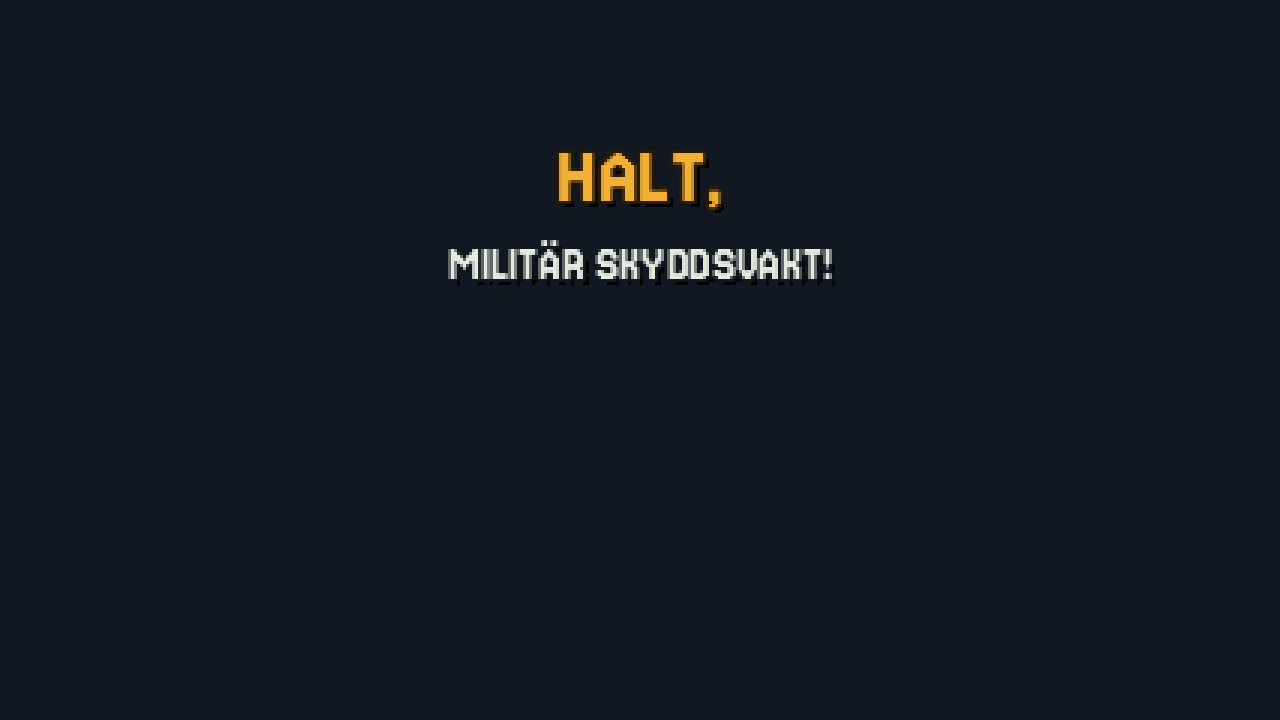
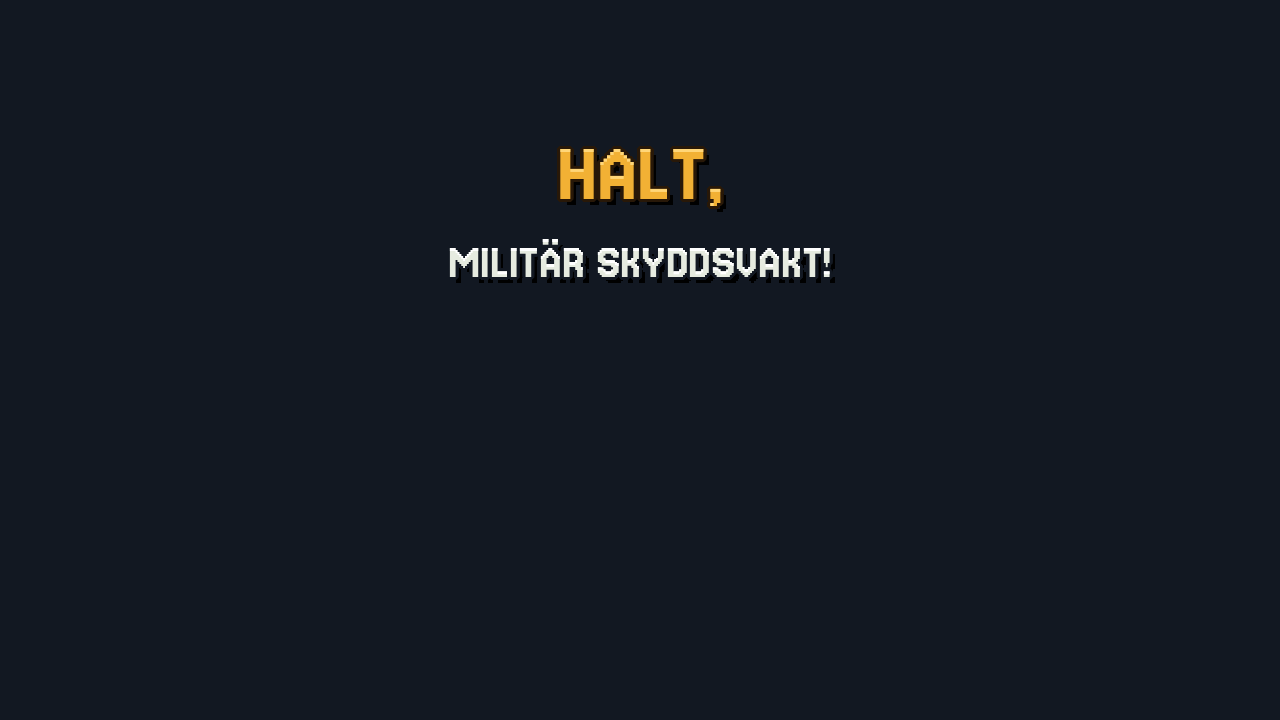
Skarpare logga och titelbild: tre gånger så många pixlar
- Loggan ritas i 660x192 (förr 220x64) med tjockare kant och ljus överkant
- Startskärmens bakgrund är kartan i full upplösning (titelbakgrund.png)
- Startbild och delningsbild genererade om med nya loggan

Claude-Session: https://claude.ai/code/session_01PWrrRnAUGCDbWAToA7Kxse

Changed region(s): [[0.3438, 0.3361, 0.6562, 0.3972], [0.4375, 0.1833, 0.5625, 0.3056]]

diff --git a/verktyg/generera_grafik.py b/verktyg/generera_grafik.py
@@ -1550,28 +1550,39 @@ hogtalare("hogtalare_av", [(7 + i, 3 + i, 1) for i in range(5)] + [(11 - i, 3 + 
 
 # ========================================================= Startskärm ==
 def logga():
-    """Spelets namn i pixelstil: ritas litet med Jersey 15 och skalas upp utan utjämning."""
+    """Spelets namn i pixelstil (Jersey 15), ritat i 660x192 – tre gånger så
+    många pixlar som första versionen – med skarpa kanter (ingen utjämning)."""
     from PIL import ImageFont
-    font_stor = ImageFont.truetype(os.path.join(os.path.dirname(OUT), "fonts", "Jersey15-Regular.ttf"), 30)
-    font_mellan = ImageFont.truetype(os.path.join(os.path.dirname(OUT), "fonts", "Jersey15-Regular.ttf"), 17)
-    W_, H_ = 220, 64
+    fontfil = os.path.join(os.path.dirname(OUT), "fonts", "Jersey15-Regular.ttf")
+    font_stor = ImageFont.truetype(fontfil, 90)
+    font_mellan = ImageFont.truetype(fontfil, 51)
+    W_, H_ = 660, 192
     im = Image.new("RGBA", (W_, H_), (0, 0, 0, 0))
     d = ImageDraw.Draw(im)
 
-    def text_med_kant(xy, text, font, fyll, kant, skugga):
+    def text_med_kant(xy, text, font, fyll, kant, skugga, ljus):
         x, y = xy
-        d.text((x + 2, y + 2), text, font=font, fill=skugga)
-        for dx in (-1, 0, 1):
-            for dy in (-1, 0, 1):
-                if dx or dy:
+        d.text((x + 6, y + 6), text, font=font, fill=skugga)
+        for dx in range(-3, 4):
+            for dy in range(-3, 4):
+                if (dx or dy) and dx * dx + dy * dy <= 10:
                     d.text((x + dx, y + dy), text, font=font, fill=kant)
         d.text((x, y), text, font=font, fill=fyll)
+        # ljus överkant: ger bokstäverna lite relief
+        lager = Image.new("RGBA", (W_, H_), (0, 0, 0, 0))
+        ImageDraw.Draw(lager).text((x, y), text, font=font, fill=ljus)
+        mask = Image.new("L", (W_, H_), 0)
+        ImageDraw.Draw(mask).text((x, y + 3), text, font=font, fill=255)
+        from PIL import ImageChops
+        topp = ImageChops.subtract(lager.split()[3], mask)
+        im.paste(ljus, (0, 0), topp)
 
     bredd = d.textlength("HALT,", font=font_stor)
-    text_med_kant(((W_ - bredd) / 2, 0), "HALT,", font_stor, (242, 177, 52, 255), (40, 24, 8, 255), (0, 0, 0, 160))
+    text_med_kant(((W_ - bredd) / 2, 0), "HALT,", font_stor, (242, 177, 52, 255), (40, 24, 8, 255),
+                  (0, 0, 0, 160), (255, 214, 120, 255))
     bredd2 = d.textlength("MILITÄR SKYDDSVAKT!", font=font_mellan)
-    text_med_kant(((W_ - bredd2) / 2, 36), "MILITÄR SKYDDSVAKT!", font_mellan, (230, 235, 224, 255),
-                  (18, 24, 34, 255), (0, 0, 0, 160))
+    text_med_kant(((W_ - bredd2) / 2, 108), "MILITÄR SKYDDSVAKT!", font_mellan, (230, 235, 224, 255),
+                  (18, 24, 34, 255), (0, 0, 0, 160), (255, 255, 255, 255))
     # Binarisera alfa för skarpa pixelkanter
     px = im.load()
     for y in range(H_):
